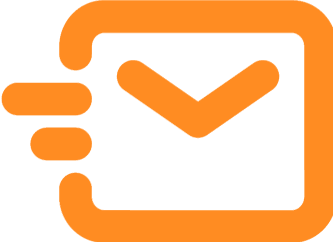
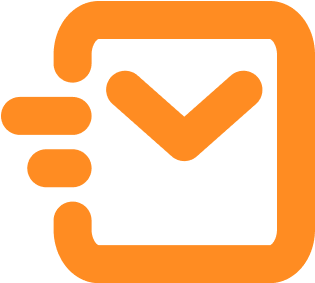
register alert

diff --git a/client/src/RegisterAcc/RegisterLandlordAcc.jsx b/client/src/RegisterAcc/RegisterLandlordAcc.jsx
@@ -59,8 +59,8 @@ const RegisterLandlordAcc = () => {
                 titleColor: "#FF5C00",
                 text: "We have sent an email to *****w455@gmail.com to verify your email address and activate your account. Link in email will expire within 24 hours.",
                 imageUrl: "Images/email.png",
-                imageWidth: 280,
-                imageHeight: 200,
+                imageHeight:200,
+                padding: "1.5em",
                 imageAlt: "email",
                 confirmButtonText: "OK",
                 confirmButtonColor: "#FF8C22"

diff --git a/client/src/RegisterAcc/RegisterTenantAcc.jsx b/client/src/RegisterAcc/RegisterTenantAcc.jsx
@@ -59,8 +59,8 @@ const Tenant = () => {
                 titleColor: "#FF5C00",
                 text: "We have sent an email to *****w455@gmail.com to verify your email address and activate your account. Link in email will expire within 24 hours.",
                 imageUrl: "Images/email.png",
-                imageWidth: 280,
-                imageHeight: 200,
+                imageHeight:200,
+                padding: "1.5em",
                 imageAlt: "email",
                 confirmButtonText: "OK",
                 confirmButtonColor: "#FF8C22"
